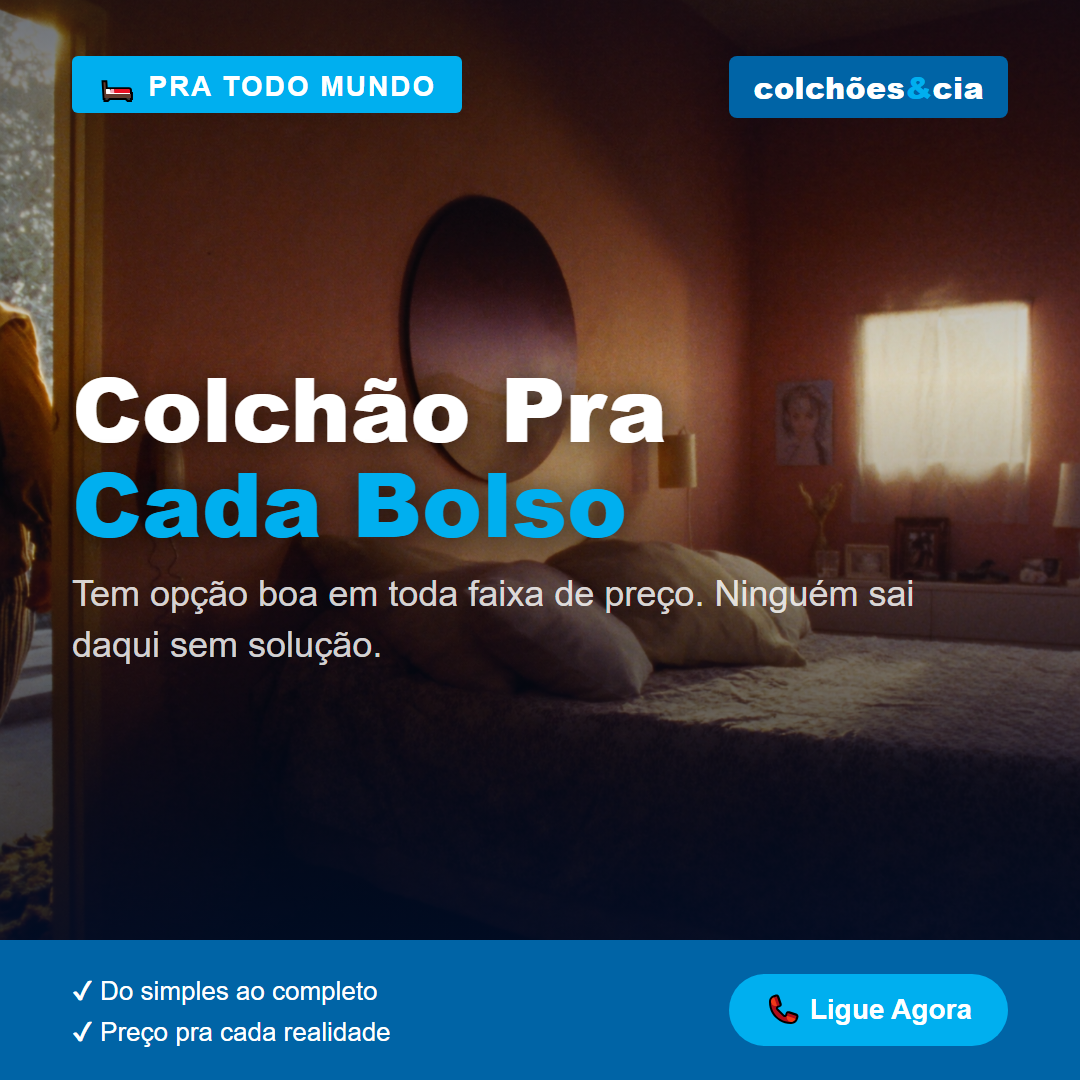
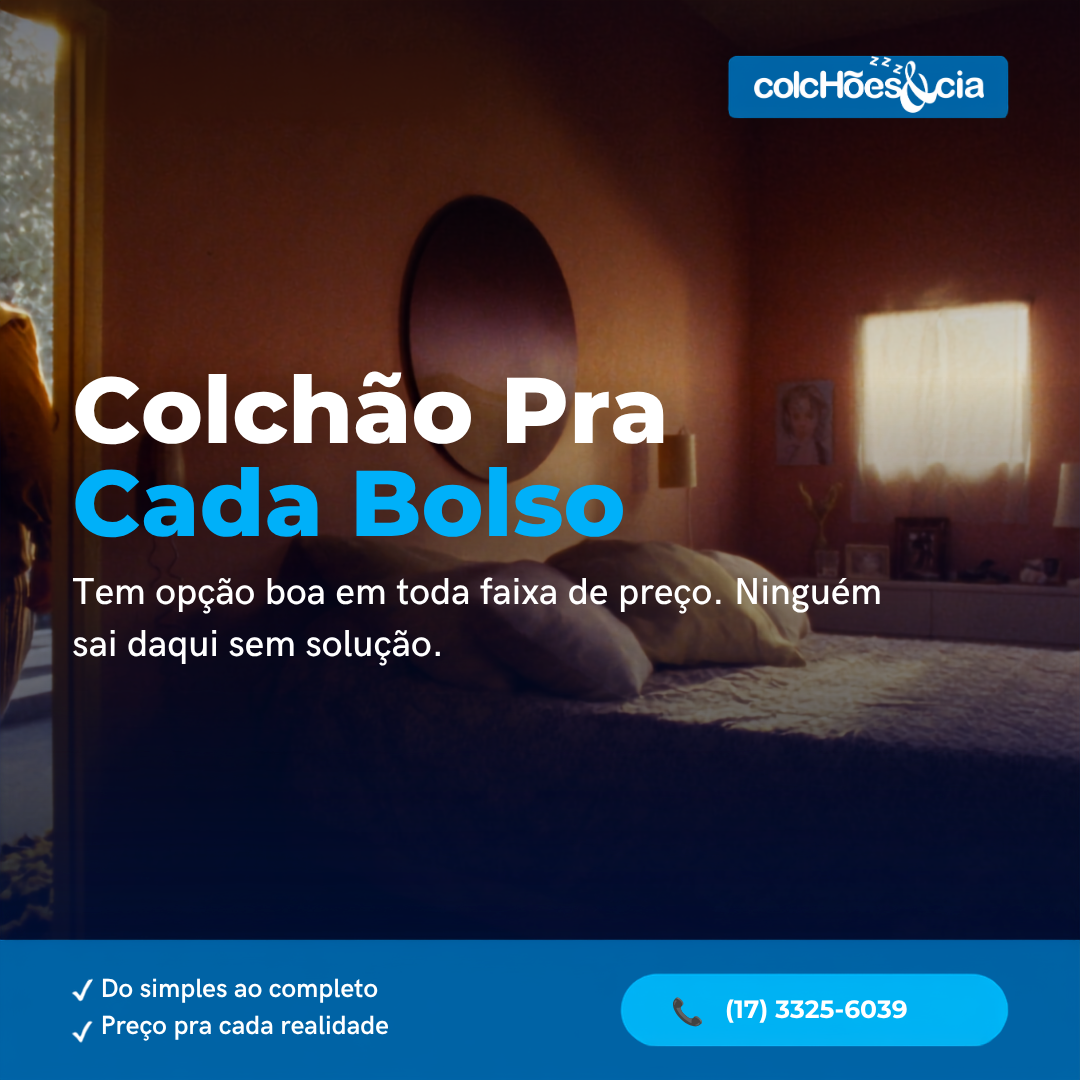
fix: restaura arte editada manualmente do post3 (Preço e Acesso)
O render.js rodou sobre os 3 posts pra trocar o CTA de WhatsApp por
ligação e acabou sobrescrevendo a arte do post3, que já tinha sido
editada manualmente (logo customizado + botão de ligação). Restaura os
PNGs originais do commit aea66e1 e tira post3 do render.js pra evitar
que isso se repita.

diff --git a/marketing/conteudo/preco-acesso-2026-07/render.js b/marketing/conteudo/preco-acesso-2026-07/render.js
@@ -1,10 +1,11 @@
 const { chromium } = require('playwright');
 const path = require('path');
 
+// post3 é editado manualmente (logo e CTA customizados) — não incluir aqui,
+// senão o próximo `node render.js` sobrescreve a arte com o template padrão.
 const posts = [
   { html: 'post1-colchao-bom.html', feed: 'post1-feed.png', story: 'post1-story.png' },
   { html: 'post2-parcela-bolso.html', feed: 'post2-feed.png', story: 'post2-story.png' },
-  { html: 'post3-cada-bolso.html', feed: 'post3-feed.png', story: 'post3-story.png' },
 ];
 
 (async () => {

diff --git a/marketing/conteudo/preco-acesso-2026-07/post3_instagram.py b/marketing/conteudo/preco-acesso-2026-07/post3_instagram.py
@@ -3,8 +3,8 @@ import sys, json
 sys.path.insert(0, '.claude/skills/int-instagram/scripts')
 from instagram_publisher import _get_account, publish_photo, publish_story
 
-FEED_URL = "https://i.imgur.com/ScYQL8a.png"
-STORY_URL = "https://i.imgur.com/fCfIE2p.png"
+FEED_URL = "https://i.imgur.com/kKUP1O4.png"
+STORY_URL = "https://i.imgur.com/9GDa2uF.png"
 
 CAPTION = (
     "Colchão pra cada bolso. 🛏️\n\n"

diff --git a/marketing/conteudo/preco-acesso-2026-07/agendar-facebook.py b/marketing/conteudo/preco-acesso-2026-07/agendar-facebook.py
@@ -47,7 +47,7 @@ Passa na loja ou liga pra gente. A gente acha o colchão certo pro seu bolso.
 📞 (17) 3325-6039
 
 Pensou Colchão, Colchões e Cia!""",
-        "image_url": "https://i.imgur.com/ScYQL8a.png",
+        "image_url": "https://i.imgur.com/kKUP1O4.png",
         "unix_ts": 1784559600,  # 20/07/2026 12:00 BRT
     },
 ]